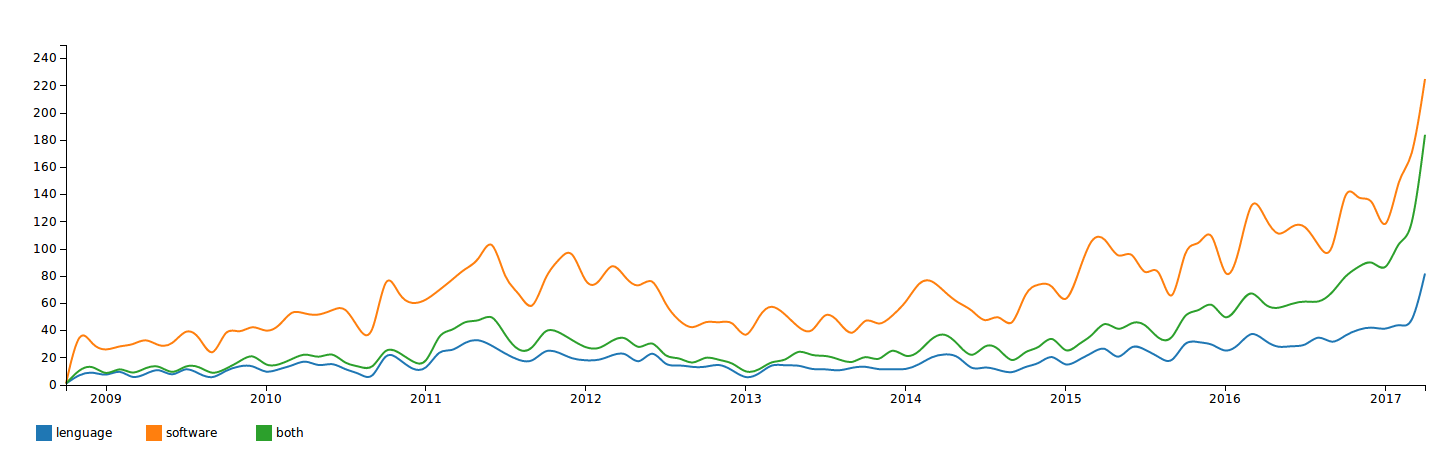
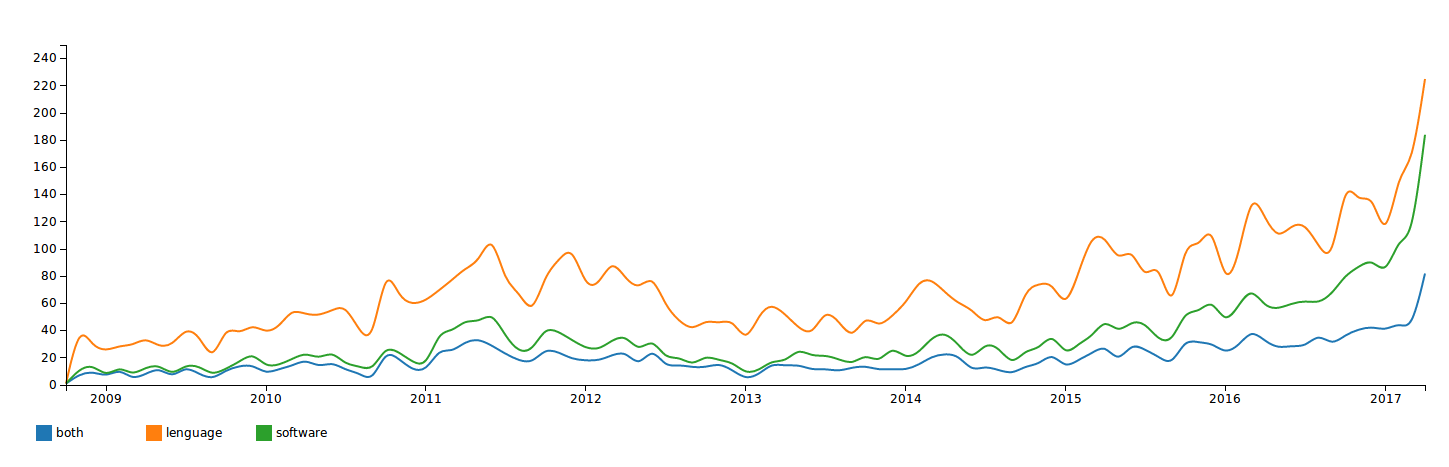
more charts

diff --git a/data/index.html b/data/index.html
@@ -65,7 +65,7 @@
 					});
 
 		            xScale.domain(d3.extent(data, function(d) { return d.date; }))
-		            yScale.domain([0,250]);
+		            yScale.domain([0,200]);
 
 		            var svg = d3.select(this)
 		                .append('svg')

diff --git a/analysis/count_words_mix_description.py b/analysis/count_words_mix_description.py
@@ -24,8 +24,8 @@ def count_words_description():
 	# }
 
 	words = {
-		'lenguage':		['html', 'css', 'java', 'php', 'flash'],
-		'software':		['photoshop', 'illustrator', 'indesign'],
+		'web':			['web'],
+		'photoshop':	['photoshop'],
 	}
 
 	with open(output_file, 'w') as write_csv:
@@ -33,11 +33,11 @@ def count_words_description():
 		last_date = ''
 		data = ['yyyymm']
 		seen = {}
+		data.append('both')
+		seen['both'] = 0
 		for key in sorted(words):
 			data.append(key)
 			seen[key] = 0
-		data.append('both')
-		seen['both'] = 0
 		writer.writerow(data)
 
 		for file in sorted(glob.glob(os.path.join(input_path, '*.txt'))):
@@ -67,6 +67,6 @@ def count_words_description():
 						data.append(seen[key])
 					writer.writerow(data)
 					print(data)
+					seen['both'] = 0
 					for key in words:
 						seen[key] = 0
-					seen['both'] = 0
